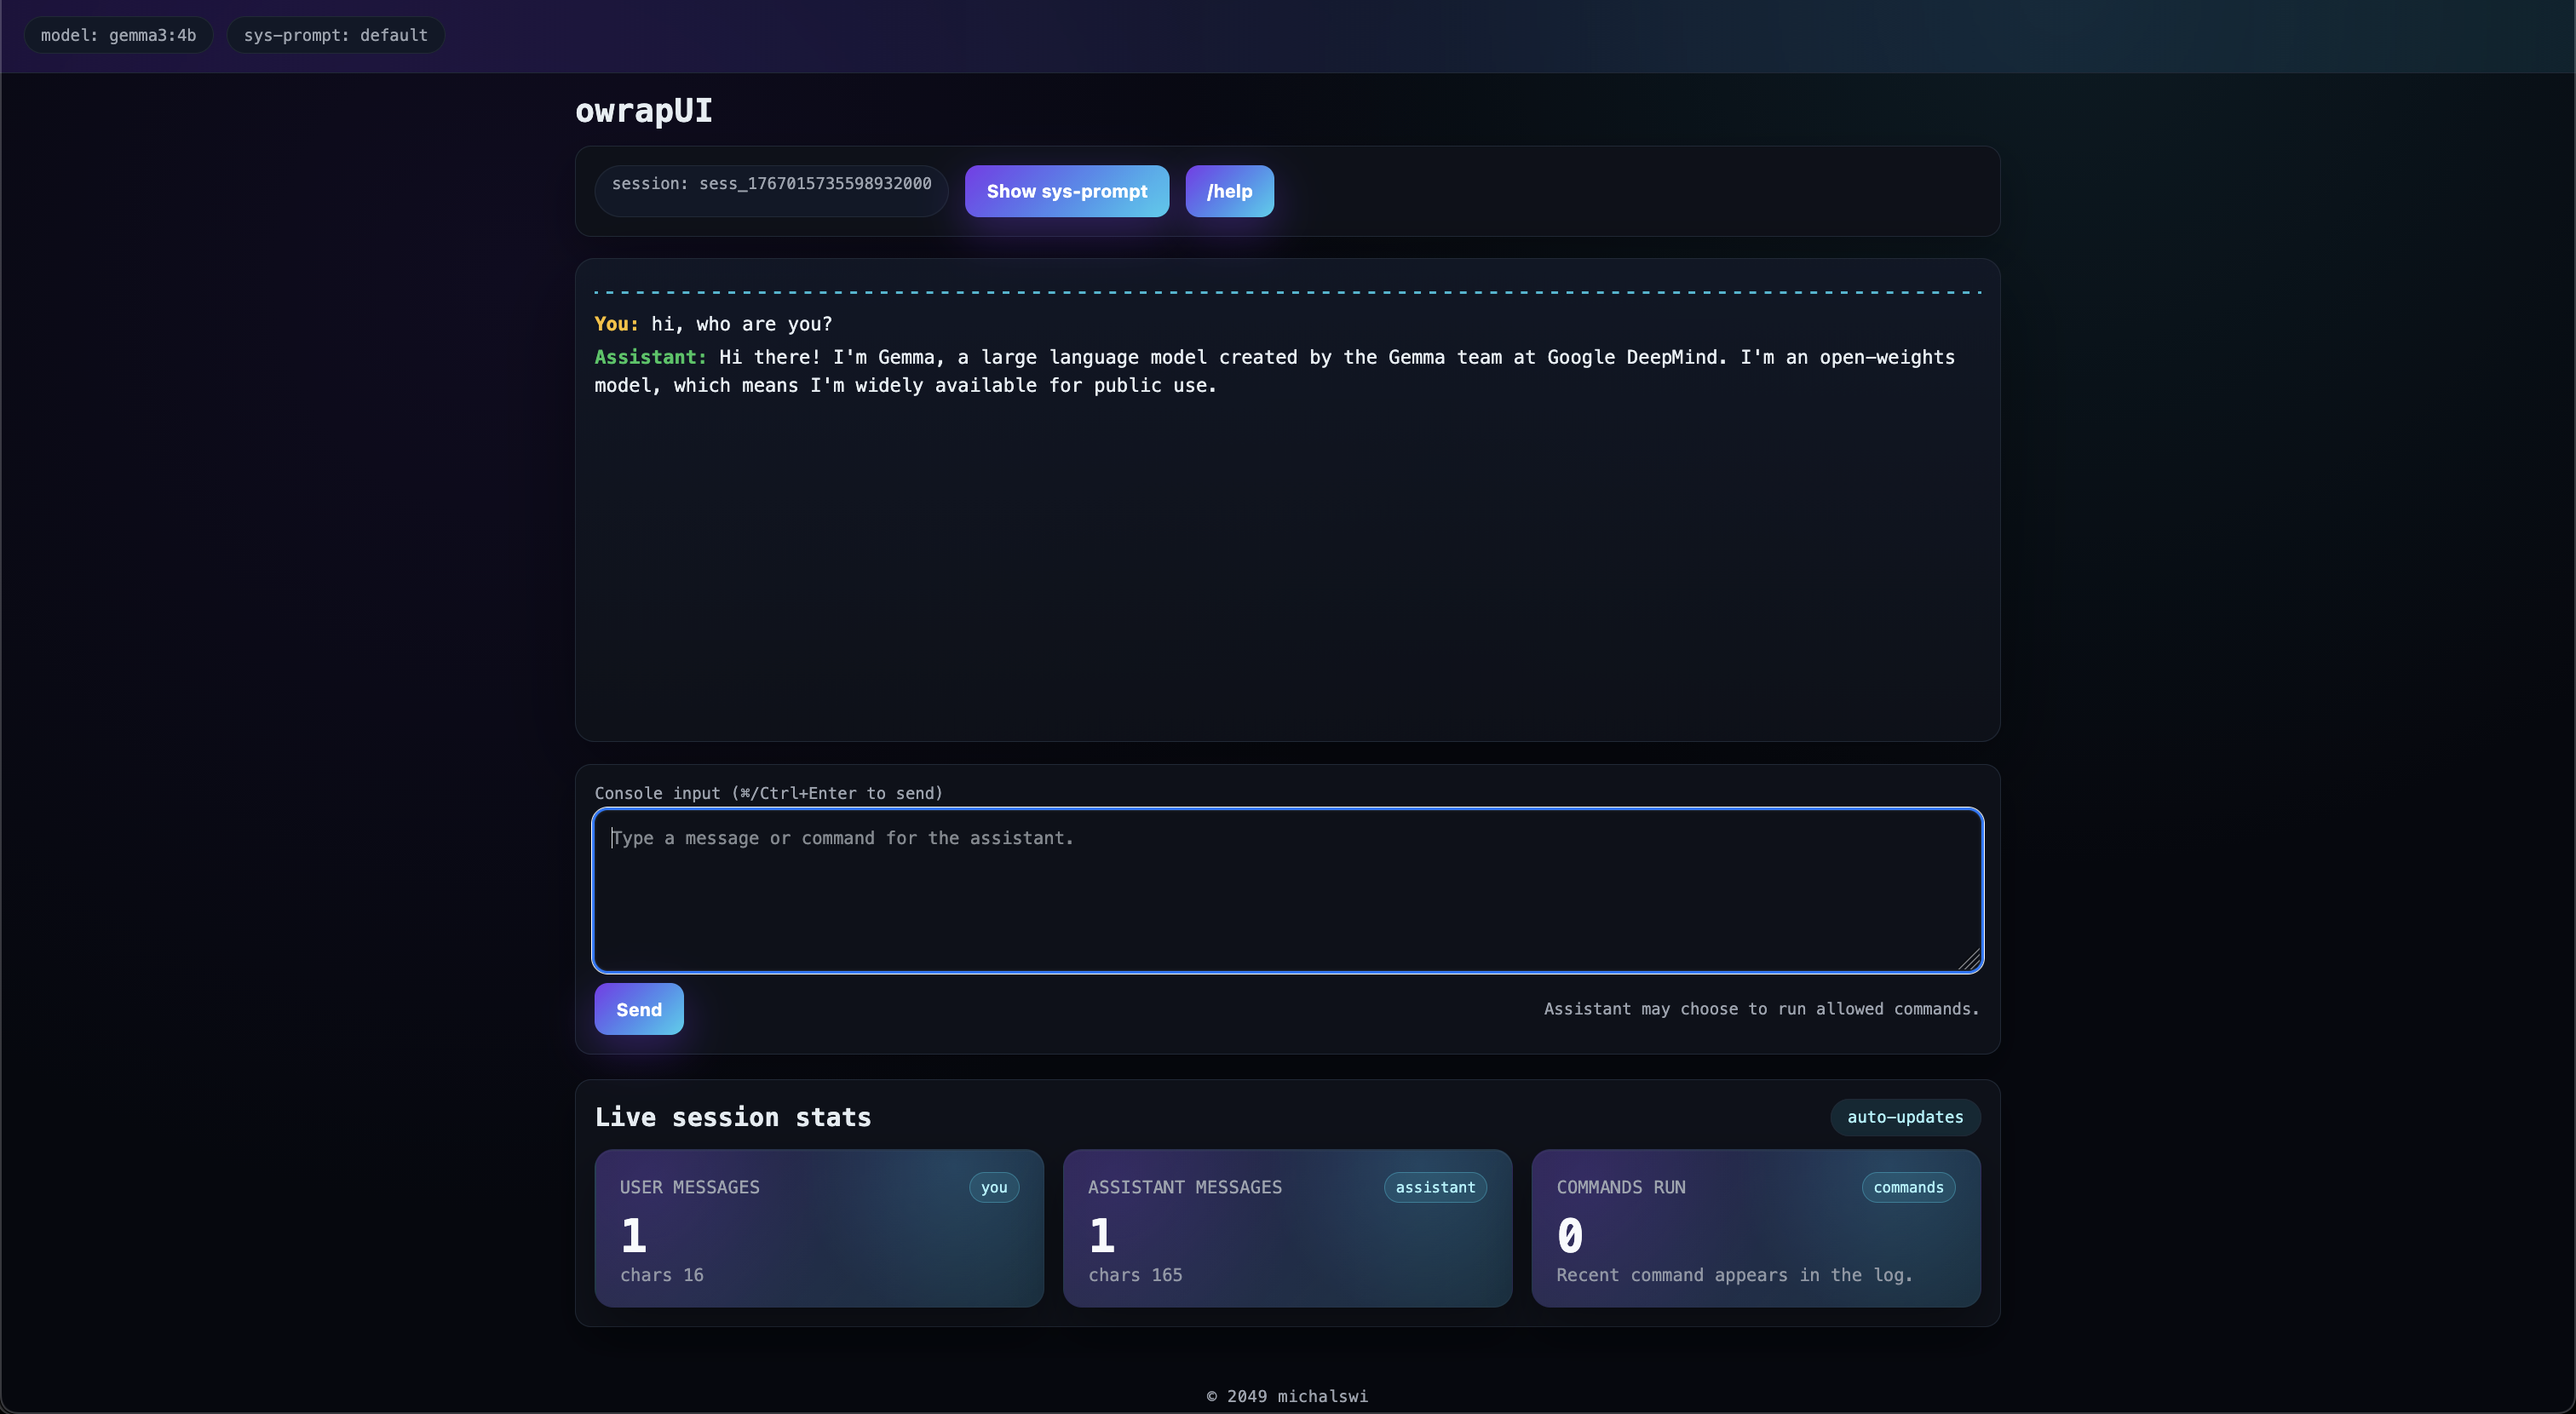
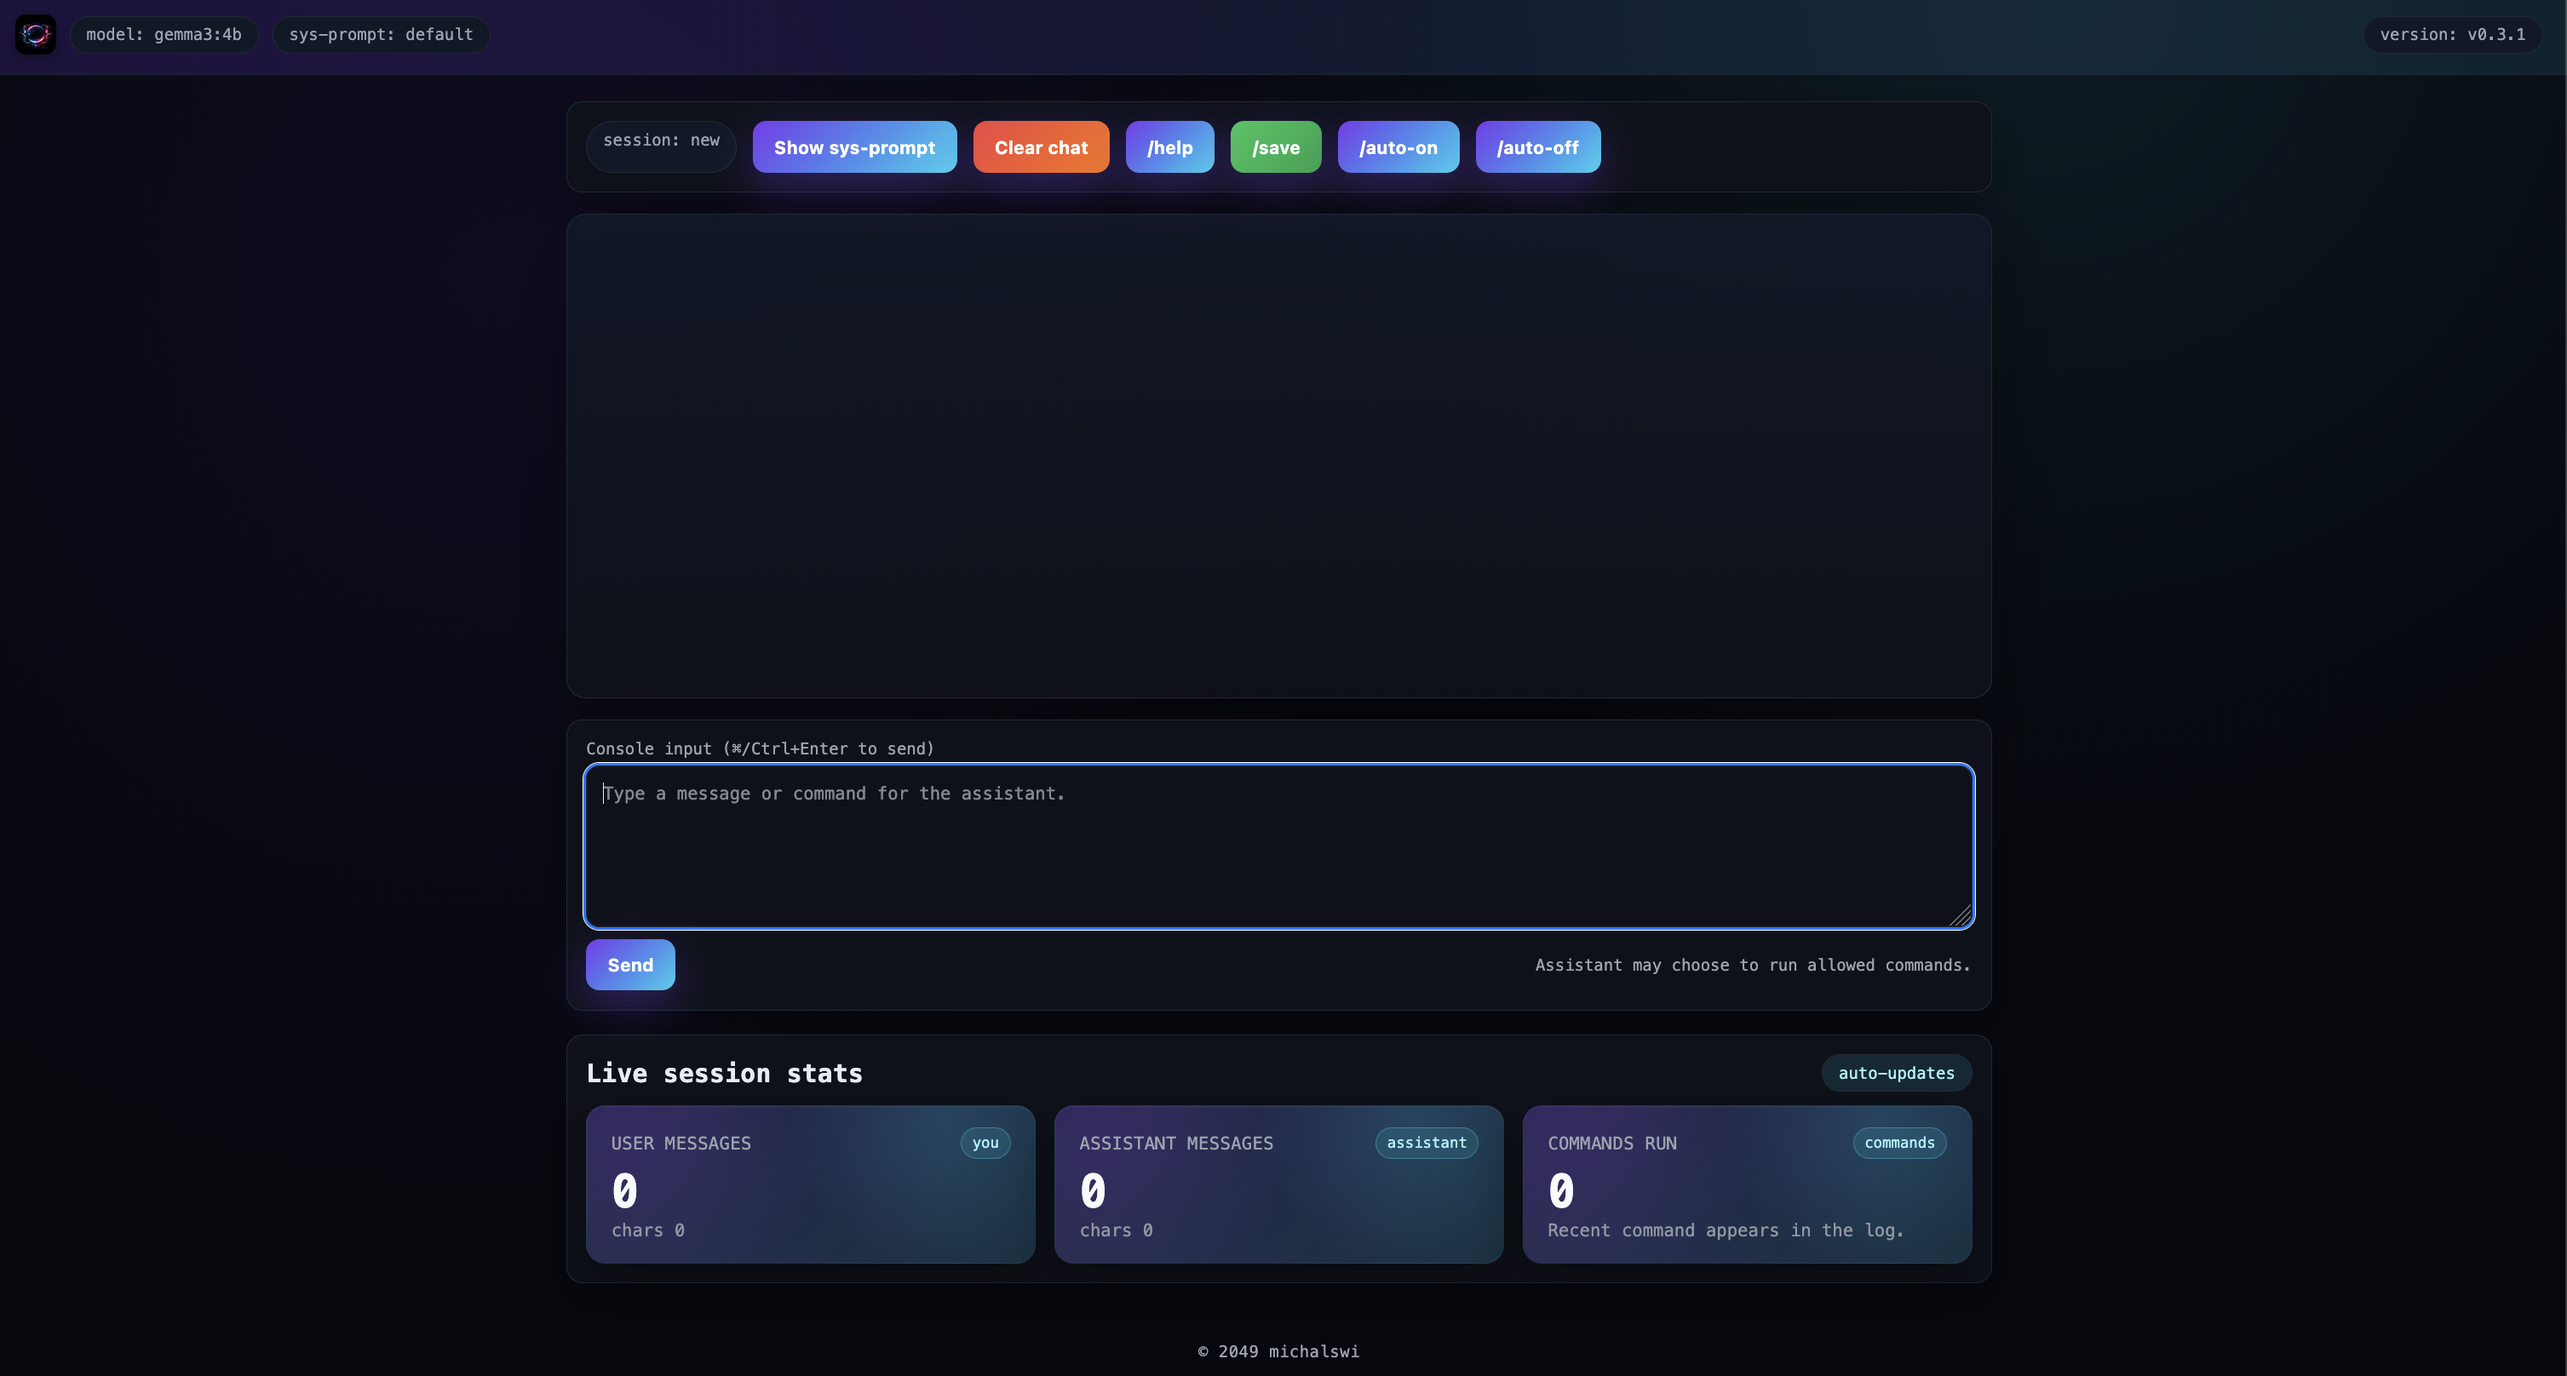
update version

diff --git a/vars.go b/vars.go
@@ -10,7 +10,7 @@ const (
 	separator = "------------------------------------------------------------"
 )
 
-var version = "v0.3.0"
+var version = "v0.3.1"
 
 var defaultSystemPrompt = `
 You are a helpful, general-purpose assistant.

diff --git a/README.md b/README.md
@@ -35,7 +35,7 @@ $ ./owrap
 ██║   ██║██║███╗██║██╔══██╗██╔══██║██╔═══╝
 ╚██████╔╝╚███╔███╔╝██║  ██║██║  ██║██║
  ╚═════╝  ╚══╝╚══╝ ╚═╝  ╚═╝╚═╝  ╚═╝╚═╝
-	v0.3.0 - @michalswi
+	v0.3.1 - @michalswi
 
 Type '/q' to quit.
 Type '/h' for help/shortcuts.
@@ -99,7 +99,7 @@ $ ./owrap
 ██║   ██║██║███╗██║██╔══██╗██╔══██║██╔═══╝
 ╚██████╔╝╚███╔███╔╝██║  ██║██║  ██║██║
  ╚═════╝  ╚══╝╚══╝ ╚═╝  ╚═╝╚═╝  ╚═╝╚═╝
-	v0.3.0 - @michalswi
+	v0.3.1 - @michalswi
 
 Type '/q' to quit.
 Type '/h' for help/shortcuts.
@@ -118,7 +118,7 @@ $ SYSTEM_PROMPT=./prompts/(...).txt ./owrap
 ██║   ██║██║███╗██║██╔══██╗██╔══██║██╔═══╝
 ╚██████╔╝╚███╔███╔╝██║  ██║██║  ██║██║
  ╚═════╝  ╚══╝╚══╝ ╚═╝  ╚═╝╚═╝  ╚═╝╚═╝
-	v0.3.0 - @michalswi
+	v0.3.1 - @michalswi
 
 Type '/q' to quit.
 Type '/h' for help/shortcuts.
@@ -156,7 +156,7 @@ $ ./owrap
 ██║   ██║██║███╗██║██╔══██╗██╔══██║██╔═══╝
 ╚██████╔╝╚███╔███╔╝██║  ██║██║  ██║██║
  ╚═════╝  ╚══╝╚══╝ ╚═╝  ╚═╝╚═╝  ╚═╝╚═╝
-	v0.3.0 - @michalswi
+	v0.3.1 - @michalswi
 
 Type '/q' to quit.
 Type '/h' for help/shortcuts.
